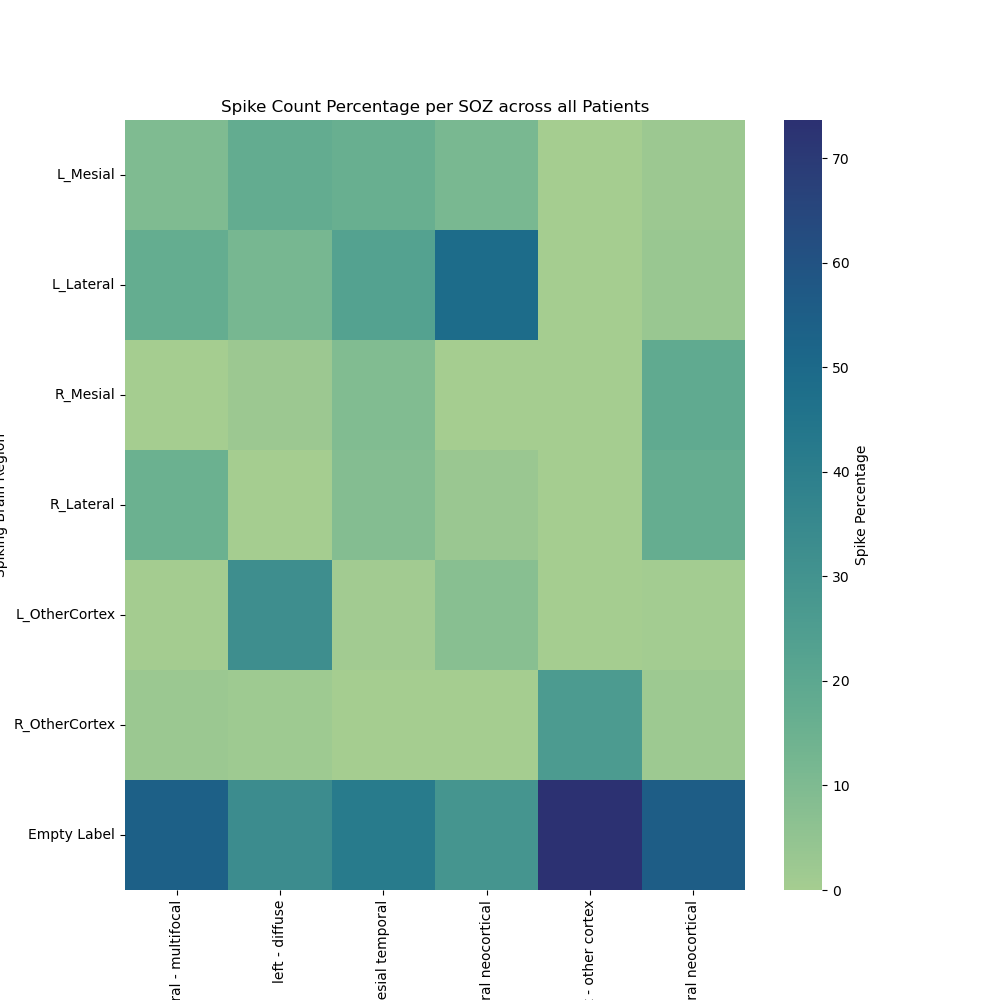
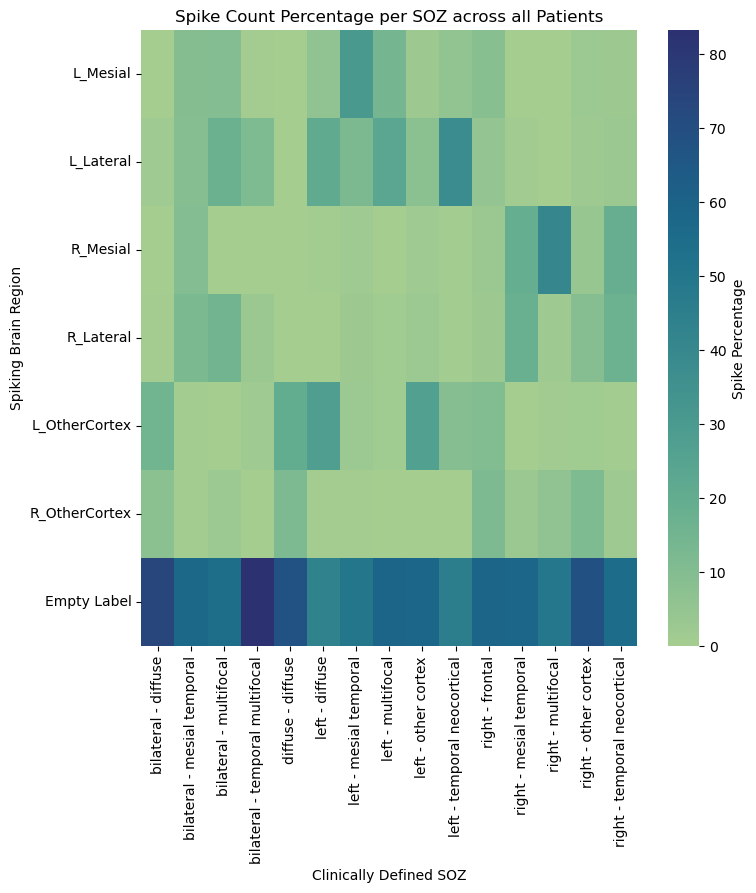
feature extract + plots

diff --git a/HUMAN/working_feat_extract_code/get_roi_vals.py b/HUMAN/working_feat_extract_code/get_roi_vals.py
@@ -38,7 +38,6 @@ R_OC = [' right inferior parietal ', ' right postcentral ', ' right superior par
 roilist = [roiL_mesial, roiL_lateral, roiR_mesial, roiR_lateral, L_OC, R_OC, emptylabel]
 
 
-
 # functions to use:
 def find_soz_region(SOZ, brain_df):
     """ returns a list with all the regions of the seizure onset zone """
@@ -161,7 +160,7 @@ def spike_LL_perregion(values, idxch): #could be generalized to multiple feature
                     for x in xs:
                         val_want = np.transpose(x)
                         val_want = val_want[idxch[i][j][l]]
-                        feat = LL(val_want)
+                        feat = LL(val_want[750:1500]) #added a constraint to hopefully capture the spike
                         spikefeat.append(feat)
             perroi.append(spikefeat)
             perroi_mean.append(np.nanmean(spikefeat))
@@ -170,9 +169,10 @@ def spike_LL_perregion(values, idxch): #could be generalized to multiple feature
 
     return perpt, perpt_mean
 
-def split_list(a_list):
-    half = len(a_list)//2
-    return [a_list[:half], a_list[half:]]
+def divide_chunks(l, n):
+    # looping till length l
+    for i in range(0, len(l), n):
+        yield l[i:i + n]
 
 def feat_extract(lists_ptnames):
     clinic_soz_all = []
@@ -181,6 +181,12 @@ def feat_extract(lists_ptnames):
     LLperpt_mean_all = []
 
     for list in lists_ptnames:
+        #clear at the start to reduce memory load
+        values = []
+        idxch = []
+        infer_spike_soz = []
+        print('cleared + new pt list')
+
         #values
         values, idxch, infer_spike_soz, clinic_soz = biglist_roi(list, roilist)
         clinic_soz_all.append(clinic_soz)
@@ -203,7 +209,9 @@ def feat_extract(lists_ptnames):
     return Aperpt_mean, LLperpt_mean, totalcount_perpt, clinic_soz
 
 # run biglist_roi >> gives you all the values/roi, idxch/roi, the inferred spike soz (based off electrodes), and the SOZ determined by the clinician. 
-lists_ptnames = split_list(ptnames)
+
+n=15
+lists_ptnames = divide_chunks(ptnames, n)
 Aperpt_mean, LLperpt_mean, totalcount_perpt, clinic_soz = feat_extract(lists_ptnames)
 
 
@@ -308,7 +316,7 @@ plt.xlabel('Clinically Defined SOZ')
 plt.ylabel('Spiking Brain Region')
 plt.title('Amplitude across all Patients')
 plt.yticks(rotation = 0)
-fig.savefig("/mnt/leif/littlab/users/aguilac/Interictal_Spike_Analysis/HUMAN/working_feat_extract_code/spike figures/distribution/amp_persoz")
+fig.savefig("/mnt/leif/littlab/users/aguilac/Interictal_Spike_Analysis/HUMAN/working_feat_extract_code/spike figures/distribution/amp_persoz", bbox_inches = 'tight')
 
 #LL
 test_df = pd.DataFrame(data = LLperpt_mean)
@@ -328,7 +336,7 @@ plt.xlabel('Clinically Defined SOZ')
 plt.ylabel('Spiking Brain Region')
 plt.title('Linelength across all Patients')
 plt.yticks(rotation = 0)
-fig2.savefig("/mnt/leif/littlab/users/aguilac/Interictal_Spike_Analysis/HUMAN/working_feat_extract_code/spike figures/distribution/ll_persoz")
+fig2.savefig("/mnt/leif/littlab/users/aguilac/Interictal_Spike_Analysis/HUMAN/working_feat_extract_code/spike figures/distribution/ll_persoz_croppedwindow", bbox_inches = 'tight')
 
 #spikecount
 test_df = pd.DataFrame(data = totalcount_perpt)
@@ -350,4 +358,4 @@ plt.xlabel('Clinically Defined SOZ')
 plt.ylabel('Spiking Brain Region')
 plt.title('Spike Count Percentage per SOZ across all Patients')
 plt.yticks(rotation = 0)
-fig3.savefig("/mnt/leif/littlab/users/aguilac/Interictal_Spike_Analysis/HUMAN/working_feat_extract_code/spike figures/distribution/countpercentage_persoz")
+fig3.savefig("/mnt/leif/littlab/users/aguilac/Interictal_Spike_Analysis/HUMAN/working_feat_extract_code/spike figures/distribution/countpercentage_persoz", bbox_inches = 'tight')

diff --git a/HUMAN/working_feat_extract_code/wave_feature.py b/HUMAN/working_feat_extract_code/wave_feature.py
@@ -1,0 +1,46 @@
+#%%
+#set up environment
+import pickle
+import pickle as pkl
+import numpy as np
+import pandas as pd
+import matplotlib.pyplot as plt
+from scipy import signal as sig
+from scipy.io import loadmat, savemat
+import warnings
+
+#from Interictal_Spike_Analysis.HUMAN.working_feat_extract_code.functions.ied_fx_v3 import value_basis_multiroi
+warnings.filterwarnings('ignore')
+import seaborn as sns
+#get all functions 
+import sys, os
+code_path = os.path.dirname('/mnt/leif/littlab/users/aguilac/Interictal_Spike_Analysis/HUMAN/working_feat_extract_code/functions/')
+sys.path.append(code_path)
+from ied_fx_v3 import *
+
+
+#%% 
+#Setup ptnames and directory
+data_directory = ['/mnt/leif/littlab/users/aguilac/Projects/FC_toolbox/results/mat_output_v2', '/mnt/leif/littlab/data/Human_Data']
+pt = pd.read_csv('/mnt/leif/littlab/users/aguilac/Projects/FC_toolbox/results/mat_output_v2/pt_data/pkl_list.csv') #pkl list is our list of the transferred data (mat73 -> pickle)
+pt = pt['pt'].to_list()
+blacklist = ['HUP101' ,'HUP112','HUP115','HUP124','HUP144','HUP147','HUP149','HUP155','HUP176','HUP193','HUP194','HUP195','HUP198','HUP208','HUP212','HUP216','HUP217','HUP064','HUP071','HUP072','HUP073','HUP085','HUP094']
+ptnames = [i for i in pt if i not in blacklist] #use only the best EEG signals (>75% visually validated)
+
+# %%
+pt = ptnames[0]
+spike, brain_df, soz_region, _ = load_ptall(pt, data_directory)
+
+#%%
+"""
+get based vals
+use those for a region (L mesial) spike 3?4? to get my spike using avgroiwave?? to get indiv_channels
+"""
+
+# %% 
+# find a series of minima and maxima for a spike
+#gives indices
+maxima = sig.argrelextrema(myspike, np.greater)
+minima = sig.argrelextrema(myspike, np.less)
+
+amplitude = np.argmax(abs(myspike[750,1250])) #look at the middle 500 points, but a spike. 
